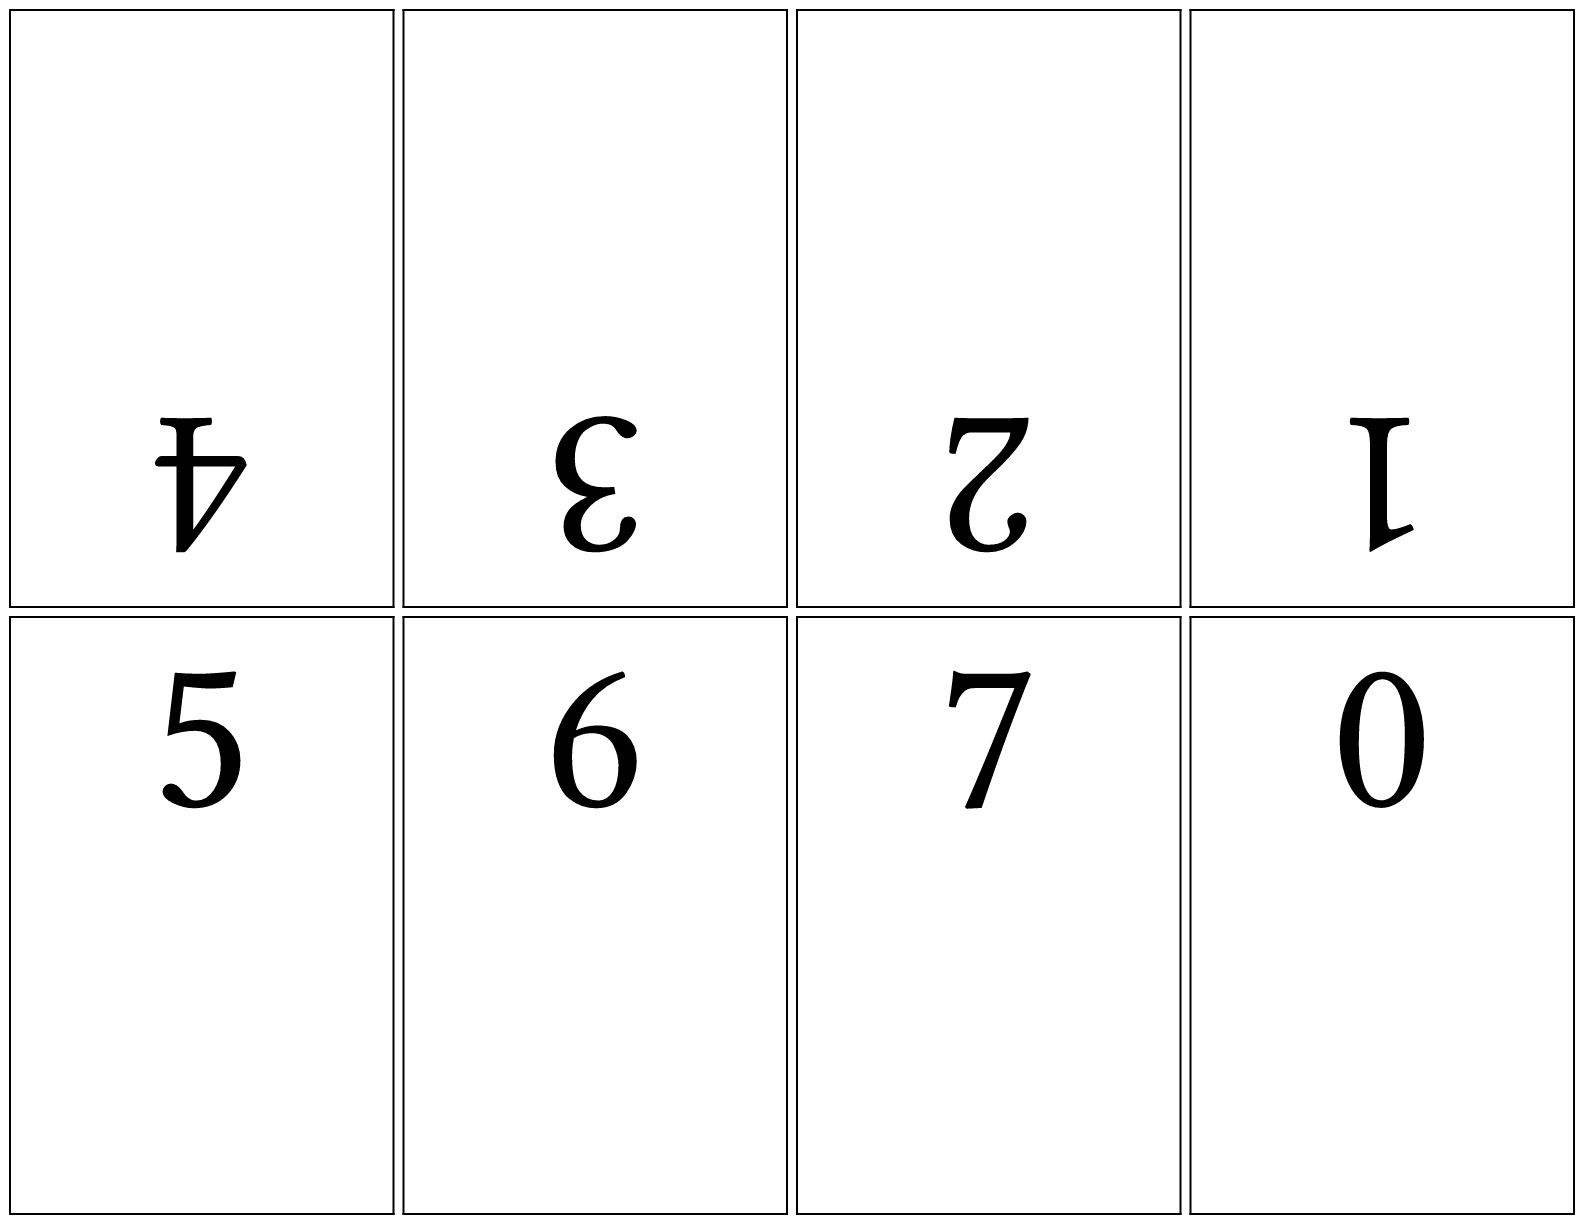
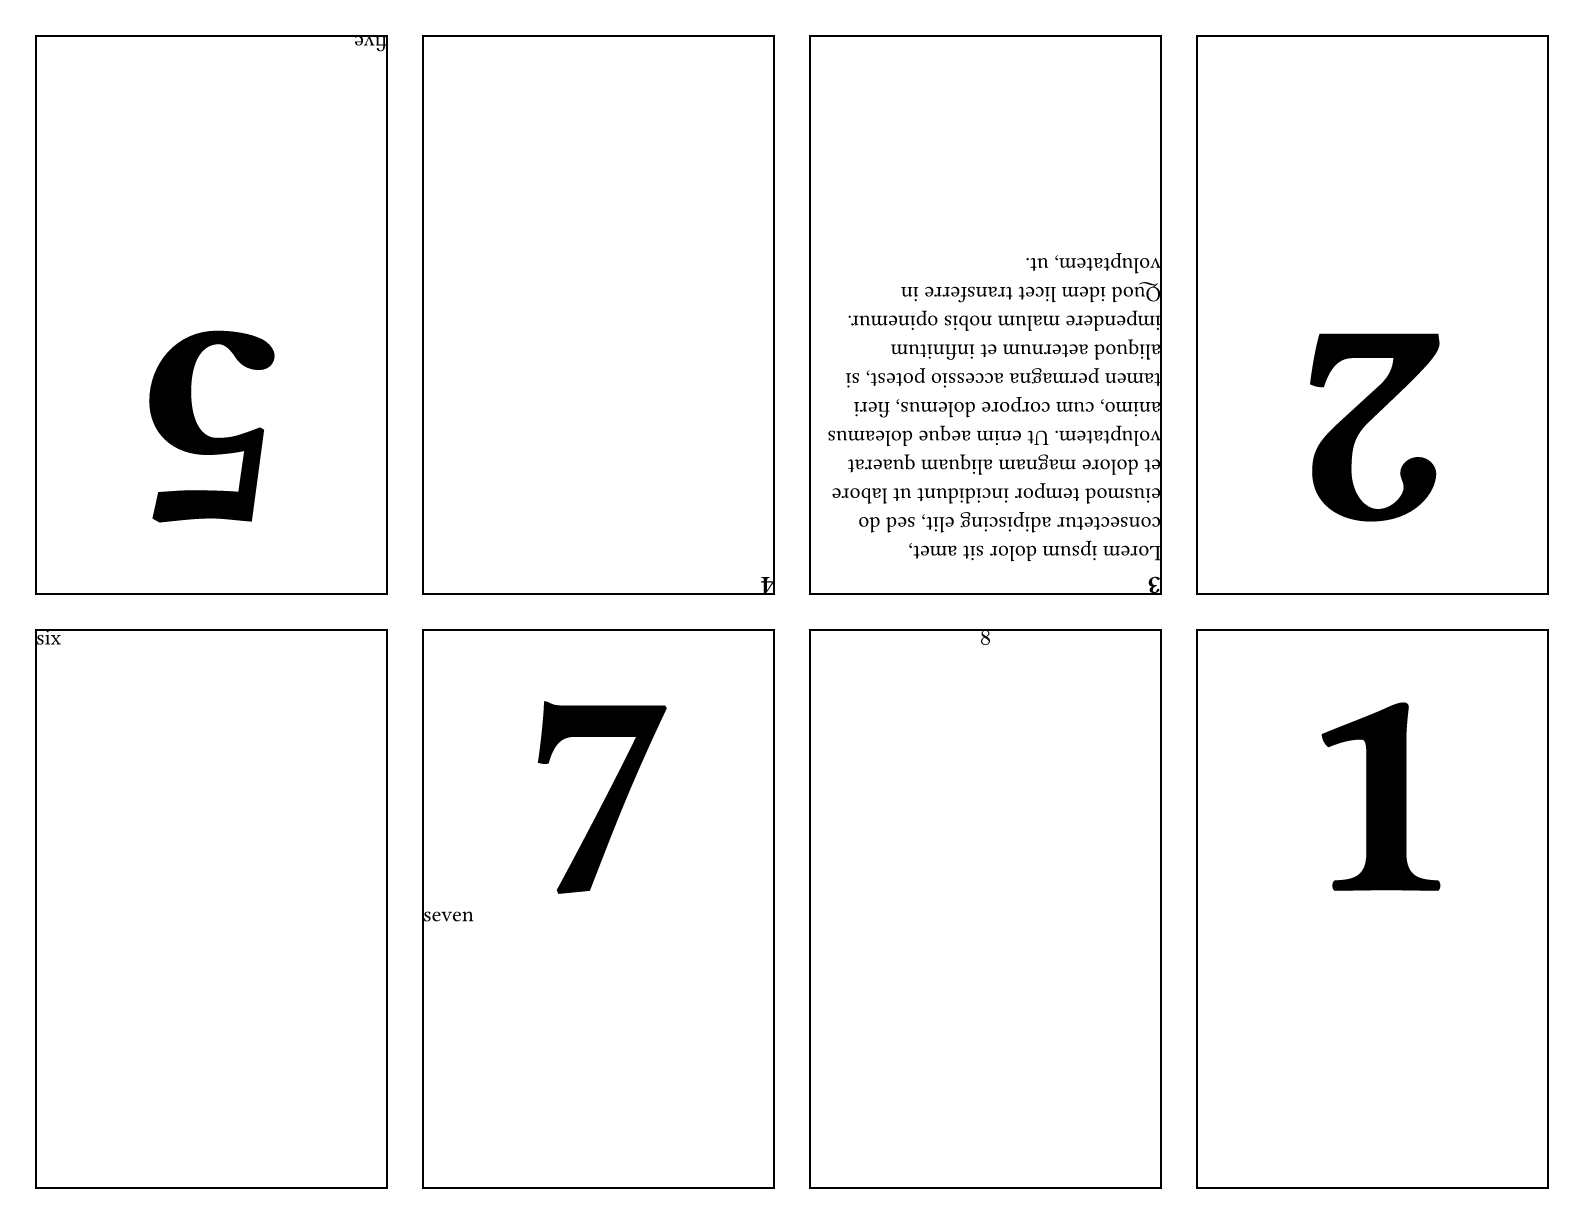
update version number, template, and README

Changed region(s): [[0.0, 0.0, 1.0, 0.9935]]

diff --git a/README.md b/README.md
@@ -8,29 +8,60 @@ wrapped before movement so that padding and alignment are respected.
 Here is the template and its preview:
 
 ```typst
-#import "@preview/zen-zine:0.1.0": zine
+#import "@preview/zen-zine:0.2.0": zine
 
 #set document(author: "Tom", title: "Zen Zine Example")
-#set text(font: "Linux Libertine", lang: "en")
+#set text(font: "Libertinus Serif", lang: "en")
 
-#let my_eight_pages = (
-  range(8).map(
-    number => [
-      #pad(2em, text(10em, align(center, str(number))))
-    ]
-  )
+// update heading rule to show that style is preserved
+#show heading.where(level: 1): hd => {
+  pad(top: 2em, text(10em, align(center, hd.body)))
+}
+
+#show: zine.with(
+  // digital: true // output PDF pages are the zine pages
+  // zine_page_margin: 0.25in // margin of zine pages
+  // draw_border: true // draw border boxes in printing mode
 )
 
 // provide your content pages in order and they
 // are placed into the zine template positions.
 // the content is wrapped before movement so that
 // padding and alignment are respected.
-#zine(
-  // draw_border: true,
-  // zine_page_margin: 8pt,
-  // digital: false
-  contents: my_eight_pages
-)
+
+= 1
+
+#pagebreak()
+
+= 2
+
+#pagebreak()
+
+== 3
+#lorem(50)
+
+#pagebreak()
+
+== 4
+
+#pagebreak()
+
+= 5
+#v(1fr)
+five
+
+#pagebreak()
+
+six
+
+#pagebreak()
+
+= 7
+seven
+
+#pagebreak()
+
+$ 8 $
 ```
 
 ![Image of Template](template/preview.png)
@@ -46,9 +77,9 @@ Roughly in order of priority.
 - Add other zine sizes (there is a 16 page one I believe?)
 - ~~Digital mode where zine pages are separate pages (of the same size) rather than 'sub pages' of a printer page~~
   - [cc323123](https://github.com/tomeichlersmith/zen-zine/commit/cc323123592d6a9203a96c7652e939d07f35ffbb)
-- Figure out how syntax to enable `#show.zine(config)` syntax like other templates
+- ~~Figure out how syntax to enable `#show.zine(config)` syntax like other templates~~
   - [can "unpack" argument sinks `..sink` with `sink.pos()` to get an array of positional arguments](https://typst.app/docs/reference/foundations/arguments/)
-  - still trying to figure out how to _provide_ an array of zine content pages in this syntactical style
+  - having user use `#pagebreak()` to signal where pages are within document content
 - Tweak margins to optimize for folding
   - Zines have 3 borders - cut, outer fold, inner fold - we can squeeze the inner folds to expand the outer folds so that there is more tolerance on the folds and text wrapping around the outside is less likely
 - 🤯give user acces to two next pages next to each other (in final zine) so they can decide how to handle an inner fold🤯
